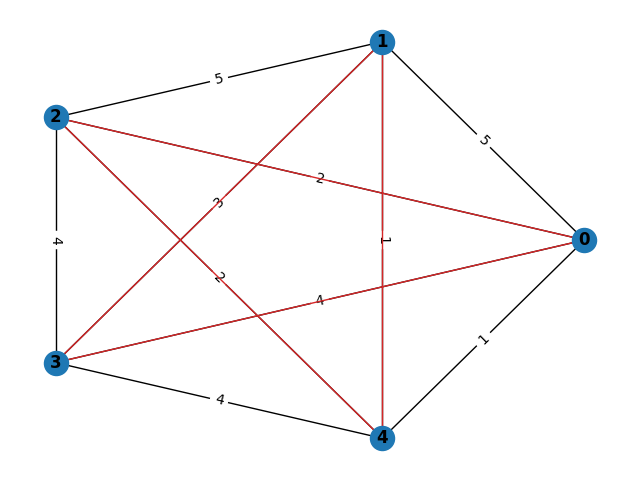
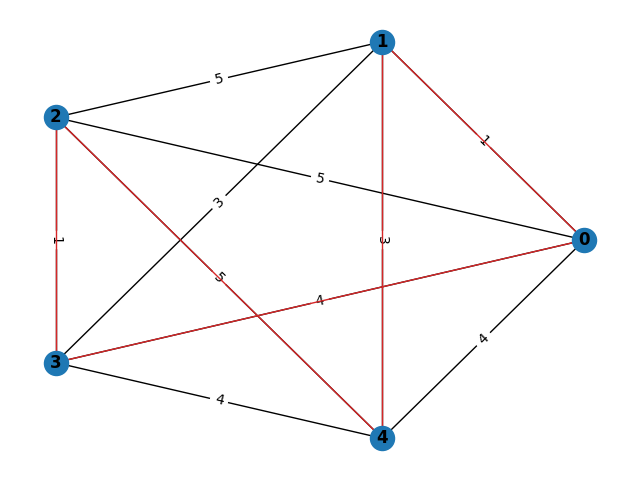
Agrego parametro regenerar

diff --git a/main.py b/main.py
@@ -1,4 +1,5 @@
 import json
+import os.path
 
 from matplotlib import pyplot as plt
 
@@ -7,15 +8,28 @@ from graph_draw import draw_graph
 from grasp import grasp
 
 
+def validate_file(file_name):
+    if not os.path.exists(file_name):
+        print("No existen los grafos de input, cambia la variable generar_grafos a True para crearlos")
+        exit(1)
+
+
 if __name__ == '__main__':
     mejores_n = 2
     # Indico los grafos a generar según su cantidad de nodos
     grafos_a_generar = [5, 10, 20]
+    regenerar = False
 
     for n in grafos_a_generar:
-        print(f"Generando grafo de {n} nodos")
-        generar(n)
-        with open("input.json", "r") as file:
+        if regenerar:
+            print(f"Generando grafo de {n} nodos")
+            generar(n)
+
+        filename = f"input{n}.json"
+
+        validate_file(filename)
+
+        with open(filename, "r") as file:
             grafo = json.load(file)
             loops = n
             incremento = n * 10

diff --git a/grasp.py b/grasp.py
@@ -22,23 +22,3 @@ def grasp(grafo, loops, mejores_n):
         i += 1
 
     return costo_actual, resultado
-
-
-if __name__ == '__main__':
-    with open("input.json", "r") as file:
-        grafo = json.load(file)
-        start_loops = 1
-        increment = 1
-        limit = 100
-        x = []
-        y = []
-
-        while start_loops < limit:
-            result = grasp(grafo, start_loops)
-            x.append(start_loops)
-            y.append(result[0])
-            start_loops += increment
-
-        plt.plot(x, y)
-        plt.savefig(f"resultados/grasp-{len(grafo)}.png")
-        plt.close()

diff --git a/generador.py b/generador.py
@@ -13,7 +13,7 @@ def generar_grafo(n, max_cost):
 
 def generar(n, max_cost=5):
     matriz = generar_grafo(n, max_cost)
-    with open("input.json", "w") as file:
+    with open(f"input{n}.json", "w") as file:
         file.write(json.dumps(matriz))
 
 

diff --git a/README.md b/README.md
@@ -14,4 +14,6 @@ python main.py
 ## configuración
 Se pueden cambiar los grafos a generar, en el archivo `main.py` cambiar la variable `grafos_a_generar` por los grafos que se quieran generar, indicando la cantidad de nodos.
 
+La idea es cambiar los parámetros con los mismos grafos y poder evaluar distintos resultados. Si se quisiese regenerar el conjunto de grafos, se puede cambiar la variable `regenerar` a `True`.
+
 Además se puede cambiar la cantidad de resultados a randomizar por la parte greedy, actualmente en 2, cambiando la variable `mejores_n`.
